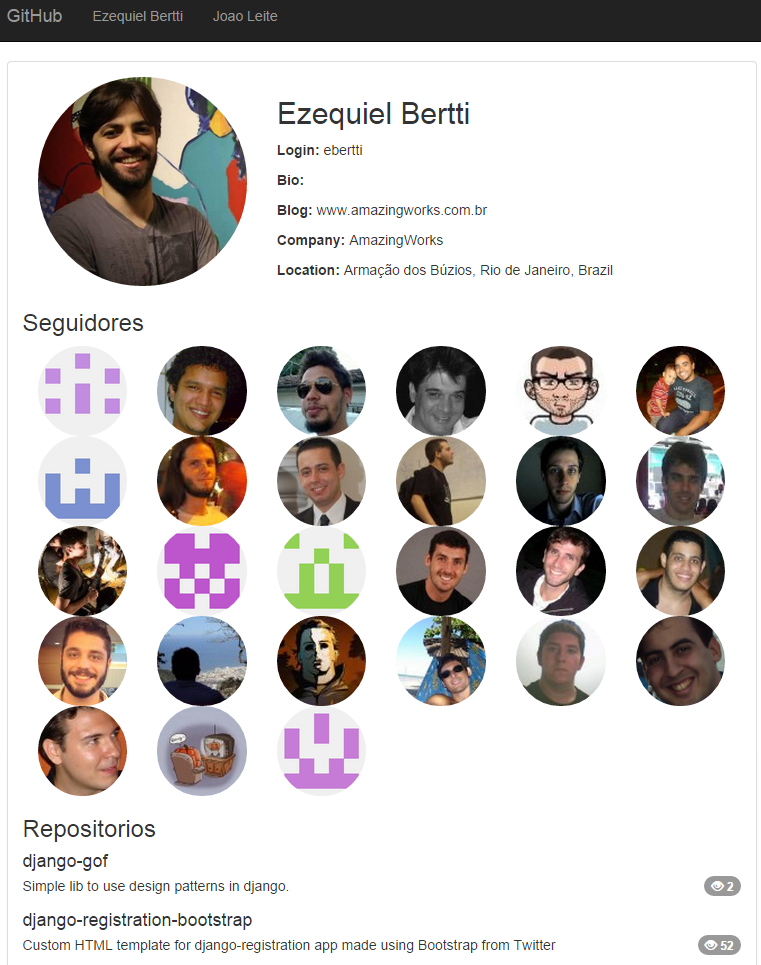
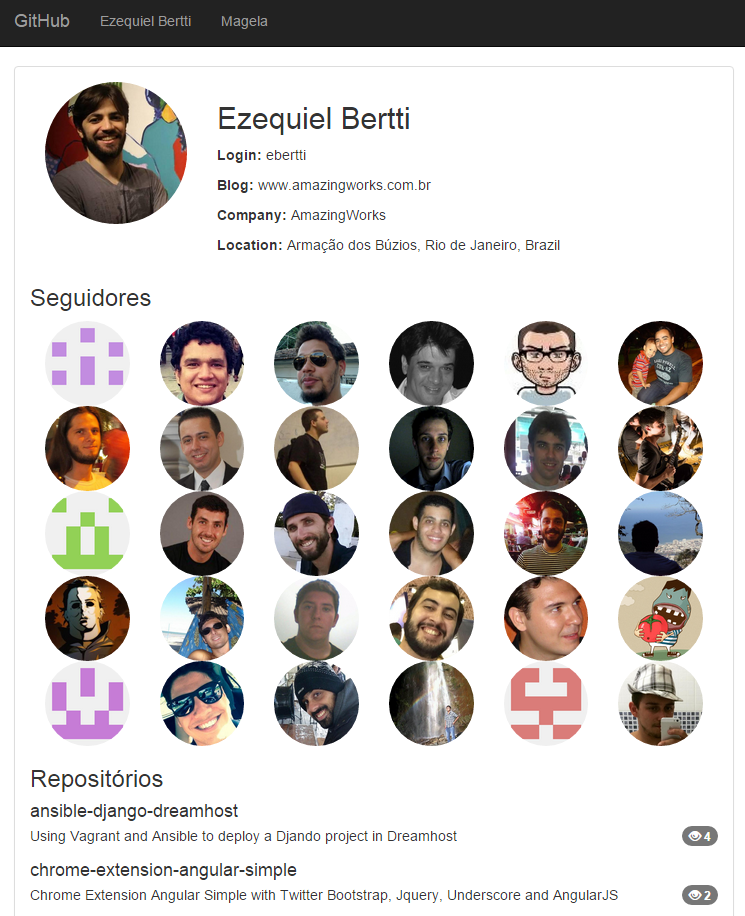
melhorias no app do github e documentacao

diff --git a/js/example/github.js b/js/example/github.js
@@ -55,30 +55,27 @@ var interface_abstracts = [
             { name:"content",
                 children:[ { name:"user",
                     children:[ { name:"avatar",  bind:"$data.avatar_url" },
-                        { name:"name", bind:"$data.name", when: 'hasDetail'},
+                        { name:"user_name", bind:"$data.name", when: 'hasDetail'},
                         { name:"login", bind:"$data.login", when: 'hasDetail' },
                         { name:"bio", bind:"$data.bio", when: 'hasDetail' },
                         { name:"blog", bind:"$data.blog", when: 'hasDetail' },
                         { name:"company", bind:"$data.company", when: 'hasDetail' },
                         { name:"location", bind:"$data.location", when: 'hasDetail' } ] },
-                    { name:"seguidores_panel",
-                        children:[ { name:"seguidores_title" },
-                            { name:"seguidores", datasource:"url:<%= $data.followers_url %>",
-                                children:[ { name:"seguidor", bind:"$data.url",
-                                    children:[ { name:"avatar_seguidor", bind:"$data.avatar_url" } ] } ]  },
-                            { name:"seguidores_mais" } ] },
-                    { name:"repositorios_panel",
-                        children:[ { name:"repositorios_title" },
-                            { name:"repositorios", datasource:"url:<%= $data.repos_url %>",
-                                children:[ { name:"repositorio",
-                                    children:[ { name:"nome",
-                                        bind:"$data.name" },
-                                        { name:"descricao", bind:"$data.description" },
-                                        { name:"star" },
-                                        { name:"watch", bind:"$data.watchers_count" } ] } ]
+                    { name:"follows_panel",
+                        children:[ { name:"follows_title" },
+                            { name:"follows", datasource:"url:<%= $data.followers_url %>",
+                                children:[ { name:"follow", bind:"$data.url",
+                                    children:[ { name:"follow_avatar", bind:"$data.avatar_url" } ] } ]  }
+                            ] },
+                    { name:"repositories_panel",
+                        children:[ { name:"repositories_title" },
+                            { name:"repositories", datasource:"url:<%= $data.repos_url %>",
+                                children:[ { name:"repository",
+                                    children:[ { name:"repository_name", bind:"$data.name" },
+                                        { name:"repository_description", bind:"$data.description" },
+                                        { name:"repository_watch", bind:"$data.watchers_count" } ] } ]
                                 } ] } ] },
-            { name:"footer",
-                children:[ { name:"footer-content" } ] } ]
+            { name:"footer" } ]
     }
 ];
 
@@ -130,8 +127,8 @@ var concrete_interface = [
         ],
 
         structure:[
-            {'user': ['avatar', {'detail': ['name', 'login', 'bio', 'blog', 'company', 'location']}]},
-            {"repositorio": ['nome', 'descricao', {box: ['star', 'watch']}]}
+            {'user': ['avatar', {'detail': ['user_name', 'login', 'bio', 'blog', 'company', 'location']}]},
+            {'repository': ['repository_name', 'repository_description', {box: ['repository_watch']}]}
         ],
 
         maps: [
@@ -140,32 +137,31 @@ var concrete_interface = [
         { name: 'navigation-list-item', widget: 'BootstrapNavigationListItem', value:'$bind', href:'navigate($data.link)'},
 
         { name: 'content', widget: 'ProfileContainer' },
-        { name: 'user', widget: 'SimpleHtml', class:'clearfix' },
+        { name: 'user', class:'clearfix' },
         { name: 'avatar', widget: 'ProfileImage', value:'$data.avatar_url' },
         { name: 'detail', widget: 'SimpleHtml', class:'col-xs-12 col-sm-8' },
-        { name: 'name', widget: 'SimpleHtml', tag: 'h2', value: '$bind' },
+        { name: 'user_name', widget: 'SimpleHtml', tag: 'h2', value: '$bind' },
         { name: 'login', widget: 'ProfileDetail', detail: 'Login', value: '$bind'},
         { name: 'bio', widget: 'ProfileDetail', detail: 'Bio', value: '$bind'},
         { name: 'blog', widget: 'ProfileDetail', detail: 'Blog', value: '$bind'},
         { name: 'company', widget: 'ProfileDetail', detail: 'Company', value: '$bind'},
         { name: 'location', widget: 'ProfileDetail', detail: 'Location', value: '$bind'},
-        { name: 'seguidores_panel', widget: 'SimpleHtml', class:'clearfix' },
-        { name: 'seguidores_title', widget: 'SimpleHtml', tag: 'h3', class:'clearfix', value:'"Seguidores"'},
-        { name: 'seguidores', widget: 'SimpleHtml', tag: 'div'},
-        { name: 'seguidor', widget: 'SimpleHtml', tag: 'a', href: 'navigate($bind)'},
-        { name: 'avatar_seguidor', widget: 'SimpleHtml', class:'col-md-2 col-xs-3 img-circle img-responsive', tag: 'img', src: '$bind + "s=80"', alt:'$data.login', title:'$data.login'},
-        { name: 'repositorios_panel', widget: 'SimpleHtml', class:'clearfix' },
-        { name: 'repositorios_title', widget: 'SimpleHtml', tag: 'h3', value:'"Repositorios"'},
-        { name: 'repositorios', widget: 'SimpleHtml', tag: 'div'},
-        { name: 'repositorio', widget: 'SimpleHtml', tag: 'div', class:'media'},
-        { name: 'nome', widget: 'SimpleHtml', tag: 'h4', value: '$data.name', class:'media-heading'},
-        { name: 'descricao', widget: 'SimpleHtml', tag: 'span', value: '$data.description'},
+        { name: 'follows_panel', class:'clearfix' },
+        { name: 'follows_title', tag: 'h3', class:'clearfix', value:'"Seguidores"'},
+        { name: 'follows' },
+        { name: 'follow', tag:'a', href: 'navigate($bind)'},
+        { name: 'follow_avatar', widget: 'BootstrapSimple', md:'1', xs:'2', img:'circle,responsive', tag: 'img', src: '$bind + "s=80"', alt:'$data.login', title:'$data.login'},
+        { name: 'repositories_panel', class:'clearfix' },
+        { name: 'repositories_title', tag: 'h3', value:'"Repositórios"'},
+        { name: 'repositories' },
+        { name: 'repository', class:'media'},
+        { name: 'repository_name', tag: 'h4', value: '$data.name', class:'media-heading'},
+        { name: 'repository_description', tag: 'span', value: '$data.description'},
         { name: 'box', widget: 'SimpleHtml', tag: 'ul', class:'nav nav-pills nav-stacked pull-right'},
-        { name: 'watch', widget: 'ProfileCount', icon:'eye-close', value:'$bind'},
-        { name: 'watch', widget: 'ProfileCount', icon:'eye-open', value:'$bind', when:'haveWatch'},
+        { name: 'repository_watch', widget: 'ProfileCount', icon:'eye-close', value:'$bind'},
+        { name: 'repository_watch', widget: 'ProfileCount', icon:'eye-open', value:'$bind', when:'haveWatch'},
 
-        { name: 'footer', widget: 'SimpleHtml', tag:'div', class:'container' },
-        { name: 'footer-content', widget: 'BootstrapFooter' }
+        { name: 'footer', widget: 'TecWebRodape' }
     ]}
 ];
 

diff --git a/js/mira/widgets/profile.js b/js/mira/widgets/profile.js
@@ -7,7 +7,7 @@ define([
 ], function ($, _, Helper) {
 
     var template = '<div class="row">\
-        <div class="col-md-8">\
+        <div class="col-md-12">\
         <div class="panel panel-default">\
         <div class="panel-body">\
         <div class="js_child">\
@@ -52,7 +52,7 @@ define([
         Image:function($parent, name, $context, options, callback){
             var element = document.createElement('div');
             element.id = name;
-            element.className = options.class || 'col-xs-12 col-sm-4 text-center';
+            element.className = options.class || 'col-xs-12 col-sm-3 text-center';
             var image = document.createElement('img');
             image.className = 'center-block img-circle img-responsive';
             if(options.value) {

diff --git a/docs/docs/index.md b/docs/docs/index.md
@@ -62,12 +62,15 @@ navegando na aplicação.
 
 O projetista tem a possibilidade de centralizar as condições que serão utilizadas posteriormente pela aplicação.
 
-    var rules = [{
+    var conditions = [{
         name: 'isUser',
         validate: '$data.login != null'
     },{
         name: 'haveWatch',
         validate: '$data.watchers_count > 0'
+    },{
+          name: 'hasDetail',
+          validate: '$bind != null'
     }];
 
 [Mais informações de construção de condições](conditions.md)
@@ -99,42 +102,36 @@ utilizando as condições definidas pelo projetista.
 É a estrutura da interface, onde definimos a ordem, origem dos dados e hierarquia dos elementos para que sejam mapeados
 pela Interface Concreta.
 
-    var abstracts = [ 
-        { name:"user",
-            widgets:[ { name:"navigation",
-                children:[ { name:"navigation-list",
-                    children:[ { name:"navigation-list-item" } ],
-                    datasource:"obj" } ] },
-                { name:"content",
-                    children:[ { name:"user",
-                        children:[ { name:"avatar" },
-                            { name:"detail",
-                                children:[ { name:"name" },
-                                    { name:"login" },
-                                    { name:"bio" },
-                                    { name:"blog" },
-                                    { name:"company" },
-                                    { name:"location" } ] } ] },
-                        { name:"seguidores_panel",
-                            children:[ { name:"seguidores_title" },
-                                { name:"seguidores",
-                                    children:[ { name:"seguidor",
-                                        children:[ { name:"avatar_seguidor" } ] } ],
-                                    datasource:"url:<%= data.followers_url %>" },
-                                { name:"seguidores_mais" } ] },
-                        { name:"repositorios_panel",
-                            children:[ { name:"repositorios_title" },
-                                { name:"repositorios",
-                                    children:[ { name:"repositorio",
-                                        children:[ { name:"nome" },
-                                            { name:"descricao" },
-                                            { name:"box",
-                                                children:[ { name:"star" },
-                                                    { name:"watch" } ] } ] } ],
-                                    datasource:"url:<%= data.repos_url %>" } ] } ] },
-                { name:"footer",
-                    children:[ { name:"footer-content" } ] } ] }
-    ];
+    var abstracts = [{
+        name:"user",
+        widgets:[ { name:"navigation",
+            children:[ { name:"navigation-list",datasource:sourceUsers,
+                children:[ { name:"navigation-list-item", bind:"$data.name" } ] } ] },
+            { name:"content",
+                children:[ { name:"user",
+                    children:[ { name:"avatar",  bind:"$data.avatar_url" },
+                        { name:"user_name", bind:"$data.name", when: 'hasDetail'},
+                        { name:"login", bind:"$data.login", when: 'hasDetail' },
+                        { name:"bio", bind:"$data.bio", when: 'hasDetail' },
+                        { name:"blog", bind:"$data.blog", when: 'hasDetail' },
+                        { name:"company", bind:"$data.company", when: 'hasDetail' },
+                        { name:"location", bind:"$data.location", when: 'hasDetail' } ] },
+                    { name:"follows_panel",
+                        children:[ { name:"follows_title" },
+                            { name:"follows", datasource:"url:<%= $data.followers_url %>",
+                                children:[ { name:"follow", bind:"$data.url",
+                                    children:[ { name:"follow_avatar", bind:"$data.avatar_url" } ] } ] },
+                        ] },
+                    { name:"repositories_panel",
+                        children:[ { name:"repositories_title" },
+                            { name:"repositories", datasource:"url:<%= $data.repos_url %>",
+                                children:[ { name:"repository",
+                                    children:[ { name:"repository_name",  bind:"$data.name" },
+                                        { name:"repository_description", bind:"$data.description" },
+                                        { name:"repository_watch", bind:"$data.watchers_count" } ] } ]
+                        } ] } ] },
+            { name:"footer" } ]
+    }];
 
 [Mais informações sobre interface abstrata](abstract-interface.md)
 
@@ -144,49 +141,52 @@ pela Interface Concreta.
 
 É o mapeamento dos [Widgets Concretos](widgets.md) com a interface abstrata selecionada pela seleção de interface.
 
-    var concret = {
-        name: 'user',
-        
-        head: [
-            {name: 'main_css', widget:'Head', href:'css/bootstrap.css', tag: 'style'},
-            {name: 'secondary_css', widget:'Head', href:'css/shop.css', tag:'style'},
-            {name: 'viewport', widget:'Meta', content:'width=device-width, initial-scale=1'},
-            {name: 'title', widget:'Title', value: '"GitHub"'}
-        ],
-        
-        maps: [
-        { name: 'navigation', widget: 'BootstrapNavigation', value:'"GitHub"'},
-        { name: 'navigation-list', widget: 'BootstrapNavigationList'},
-        { name: 'navigation-list-item', widget: 'BootstrapNavigationListItem', value:'$data.name', href:'navigate($data.link)'},
+    var concret = [{
+       name: 'user',
+       head:[
+           {name: 'main_css', widget:'Head', href:'css/bootstrap.css', tag: 'style'},
+           {name: 'secondary_css', widget:'Head', href:'css/shop.css', tag:'style'},
+           {name: 'viewport', widget:'Meta', content:'width=device-width, initial-scale=1'},
+           {name: 'title', widget:'Title', value: '"GitHub de " + ($data.name || $data.login)'}
+       ],
 
-        { name: 'content', widget: 'ProfileContainer' },
-        { name: 'user', widget: 'SimpleHtml', class:'clearfix' },
-        { name: 'avatar', widget: 'ProfileImage', value:'$data.avatar_url' },
-        { name: 'detail', widget: 'SimpleHtml', class:'col-xs-12 col-sm-8' },
-        { name: 'name', widget: 'SimpleHtml', tag: 'h2', value: '$data.name' },
-        { name: 'login', widget: 'ProfileDetail', detail: 'Login', value: '$data.login'},
-        { name: 'bio', widget: 'ProfileDetail', detail: 'Bio', value: '$data.bio'},
-        { name: 'blog', widget: 'ProfileDetail', detail: 'Blog', value: '$data.blog'},
-        { name: 'company', widget: 'ProfileDetail', detail: 'Company', value: '$data.company'},
-        { name: 'location', widget: 'ProfileDetail', detail: 'Location', value: '$data.location'},
-        { name: 'seguidores_panel', widget: 'SimpleHtml', class:'clearfix' },
-        { name: 'seguidores_title', widget: 'SimpleHtml', tag: 'h3', class:'clearfix', value:'"Seguidores"'},
-        { name: 'seguidores', widget: 'SimpleHtml', tag: 'div'},
-        { name: 'seguidor', widget: 'SimpleHtml', tag: 'a', href: 'navigate($data.url)'},
-        { name: 'avatar_seguidor', widget: 'SimpleHtml', class:'col-md-2 col-xs-3 img-circle img-responsive', tag: 'img', src: '$data.avatar_url + "s=80"', alt:'$data.login', title:'$data.login'},
-        { name: 'repositorios_panel', widget: 'SimpleHtml', class:'clearfix' },
-        { name: 'repositorios_title', widget: 'SimpleHtml', tag: 'h3', value:'"Repositorios"'},
-        { name: 'repositorios', widget: 'SimpleHtml', tag: 'div'},
-        { name: 'repositorio', widget: 'SimpleHtml', tag: 'div', class:'media'},
-        { name: 'nome', widget: 'SimpleHtml', tag: 'h4', value: '$data.name', class:'media-heading'},
-        { name: 'descricao', widget: 'SimpleHtml', tag: 'span', value: '$data.description'},
-        { name: 'box', widget: 'SimpleHtml', tag: 'ul', class:'nav nav-pills nav-stacked pull-right'},
-        { name: 'watch', widget: 'ProfileCount', icon:'eye-close', value:'$data.watchers_count'},
-        { name: 'watch', widget: 'ProfileCount', icon:'eye-open', value:'$data.watchers_count', when:'haveWatch'},
+       structure:[
+           {'user': ['avatar', {'detail': ['user_name', 'login', 'bio', 'blog', 'company', 'location']}]},
+           {"repository": ['repository_name', 'repository_description', {box: ['repository_watch']}]}
+       ],
 
-        { name: 'footer', widget: 'SimpleHtml', tag:'div', class:'container' },
-        { name: 'footer-content', widget: 'BootstrapFooter' }
-    ]}];
+       maps: [
+           { name: 'navigation', widget: 'BootstrapNavigation', value:'"GitHub"'},
+           { name: 'navigation-list', widget: 'BootstrapNavigationList'},
+           { name: 'navigation-list-item', widget: 'BootstrapNavigationListItem', value:'$bind', href:'navigate($data.link)'},
+    
+           { name: 'content', widget: 'ProfileContainer' },
+           { name: 'user', class:'clearfix' },
+           { name: 'avatar', widget: 'ProfileImage', value:'$data.avatar_url' },
+           { name: 'detail', widget: 'SimpleHtml', class:'col-xs-12 col-sm-8' },
+           { name: 'user_name', widget: 'SimpleHtml', tag: 'h2', value: '$bind' },
+           { name: 'login', widget: 'ProfileDetail', detail: 'Login', value: '$bind'},
+           { name: 'bio', widget: 'ProfileDetail', detail: 'Bio', value: '$bind'},
+           { name: 'blog', widget: 'ProfileDetail', detail: 'Blog', value: '$bind'},
+           { name: 'company', widget: 'ProfileDetail', detail: 'Company', value: '$bind'},
+           { name: 'location', widget: 'ProfileDetail', detail: 'Location', value: '$bind'},
+           { name: 'follows_panel', class:'clearfix' },
+           { name: 'follows_title', tag: 'h3', class:'clearfix', value:'"Seguidores"'},
+           { name: 'follows' },
+           { name: 'follow', tag:'a', href: 'navigate($bind)'},
+           { name: 'follow_avatar', widget: 'BootstrapSimple', md:'1', xs:'2', img:'circle,responsive', tag: 'img', src: '$bind + "s=80"', alt:'$data.login', title:'$data.login'},
+           { name: 'repositories_panel', class:'clearfix' },
+           { name: 'repositories_title', tag: 'h3', value:'"Repositórios"'},
+           { name: 'repositories' },
+           { name: 'repository', class:'media'},
+           { name: 'repository_name', tag: 'h4', value: '$data.name', class:'media-heading'},
+           { name: 'repository_description', tag: 'span', value: '$data.description'},
+           { name: 'box', widget: 'SimpleHtml', tag: 'ul', class:'nav nav-pills nav-stacked pull-right'},
+           { name: 'repository_watch', widget: 'ProfileCount', icon:'eye-close', value:'$bind'},
+           { name: 'repository_watch', widget: 'ProfileCount', icon:'eye-open', value:'$bind', when:'haveWatch'},
+    
+           { name: 'footer', widget: 'TecWebRodape' }
+   ]}];
 
 
 [Mais informações sobre interface concreta](concrete-interface.md)
@@ -197,6 +197,6 @@ pela Interface Concreta.
 
 Navegando para uma URI da API REST do GitHub
 
-    http://localhost/?app=github#?URI=https://api.github.com/users/ebertti
+    http://localhost/?app=example/github#?URI=https://api.github.com/users/ebertti
 
 ![Screenshot do exemplo](img/screenshot.png)
